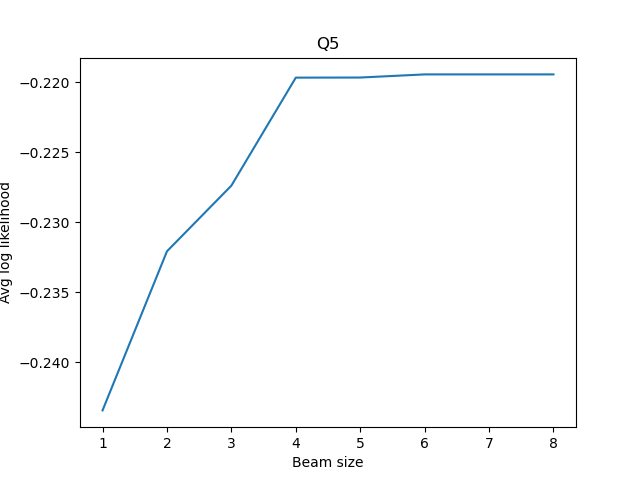
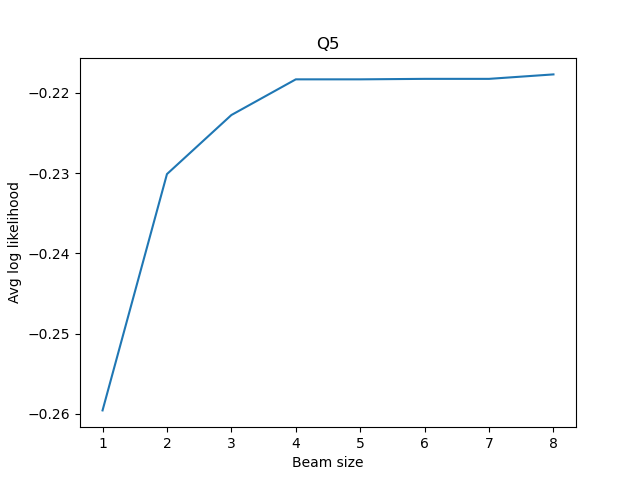
Add BLEU calculation

diff --git a/transformer.py b/transformer.py
@@ -368,7 +368,7 @@ class Transformer(Module):
                     extended_seq = torch.cat((base_seq, top_tokens[idx].reshape(1, 1)), dim=1)
                     accumulated_score = np.log(float(top_scores[idx])) + score_seq_pair[0]
                     candidate_seq_list.append([accumulated_score, extended_seq])
-            candidate_seq_list.sort()
+            candidate_seq_list.sort(key=lambda x: x[0])
             top_candidates = candidate_seq_list[-beam_size:]
             idx = 0
 
@@ -553,7 +553,7 @@ def strip_sentence(sentence):
         else:
             output.append(word)
 
-    raise ValueError(f"Sentence {sentence} is never terminated by EOS")
+    return output
 
 def bleu_score(predicted: List[int], target: List[int], N: int = 4) -> float:
     """
@@ -583,6 +583,17 @@ def bleu_score(predicted: List[int], target: List[int], N: int = 4) -> float:
     return geom_mean * penalty
 
 
+def calc_avg_bleu_score(transformer, test_source, test_target, bleu_n):
+    scores = []
+    for french, english in zip(test_source, test_target):
+        french, english = french.tolist(), english.tolist()
+        translation, _ = transformer.predict(french, beam_size=3)
+        score = bleu_score(translation, english, bleu_n)
+        scores.append(score)
+
+    return sum(scores) / len(scores)
+
+
 if __name__ == "__main__":
     EPOCHS = 30
     QUESTION = '2e'
@@ -595,25 +606,42 @@ if __name__ == "__main__":
     train_source, train_target = preprocess_data(train_sentences, len(source_vocab), len(target_vocab), 12)
     test_source, test_target = preprocess_data(test_sentences, len(source_vocab), len(target_vocab), 12)
 
+    # questions = ['2a', '2b', '2c', '2d', '2e']
+    # filenames = [f"output/{q}/model.pkl" for q in questions]
+    # configs = [[1, 1, 1], [1, 1, 4], [2, 2, 1], [2, 2, 4], [2, 4, 4]]
+    #
+    # for filename, config, question in zip(filenames, configs, questions):
+    #     transformer = Transformer(len(source_vocab), len(target_vocab), 256, *config)
+    #     transformer.load_state_dict(torch.load(filename))
+    #     transformer.eval()
+    #     for bleu_n in range(1, 5):
+    #         avg_score = calc_avg_bleu_score(transformer, test_source, test_target, bleu_n)
+    #         print(f"Model {question} | BLEU-{bleu_n} : {round(avg_score, 4)}")
+
+
+
+    ################### Q5 ###################
     transformer = Transformer(len(source_vocab), len(target_vocab), 256, N_ENCODERS, N_DECODERS, N_HEADS)
     transformer.load_state_dict(torch.load("output/2e/model.pkl"))
     transformer.eval()
-
-    ################### Q5 ###################
     # avg_likelihoods = [-0.24344101760911172, -0.23207810300032686, -0.2273868364227314, -0.2196743762294325, -0.21966718185228618, -0.21944324851449365, -0.21944324851449365, -0.21944324851449365]
-    # beam_sizes = list(range(1, 9))
-    # # for beam_size in range(1, 9):
-    # #     likelihoods = []
-    # #     for french, english in tqdm(test_sentences[:100], desc=f"Beam size: {beam_size}"):
-    # #         translation, likelihood = transformer.predict(french, beam_size=beam_size)
-    # #         likelihoods.append(likelihood)
-    # #     avg_likelihoods.append(sum(likelihoods) / len(likelihoods))
-    #
-    # plt.title("Q5")
-    # plt.plot(beam_sizes, avg_likelihoods)
-    # plt.xlabel("Beam size")
-    # plt.ylabel("Avg log likelihood")
-    # plt.show()
+    avg_likelihoods = []
+    beam_sizes = list(range(1, 9))
+    for beam_size in beam_sizes:
+        likelihoods = []
+        for i in tqdm(range(100), desc=f"Beam size: {beam_size}"):
+            french = test_source[i, :].tolist()
+            translation, likelihood = transformer.predict(french, beam_size=beam_size)
+            likelihoods.append(likelihood)
+        avg_likelihoods.append(sum(likelihoods) / len(likelihoods))
+
+    print(f"avg_likelihoods: {avg_likelihoods}")
+
+    plt.title("Q5")
+    plt.plot(beam_sizes, avg_likelihoods)
+    plt.xlabel("Beam size")
+    plt.ylabel("Avg log likelihood")
+    plt.show()
 
     ################### Q4 ###################
     # for i in range(3):
